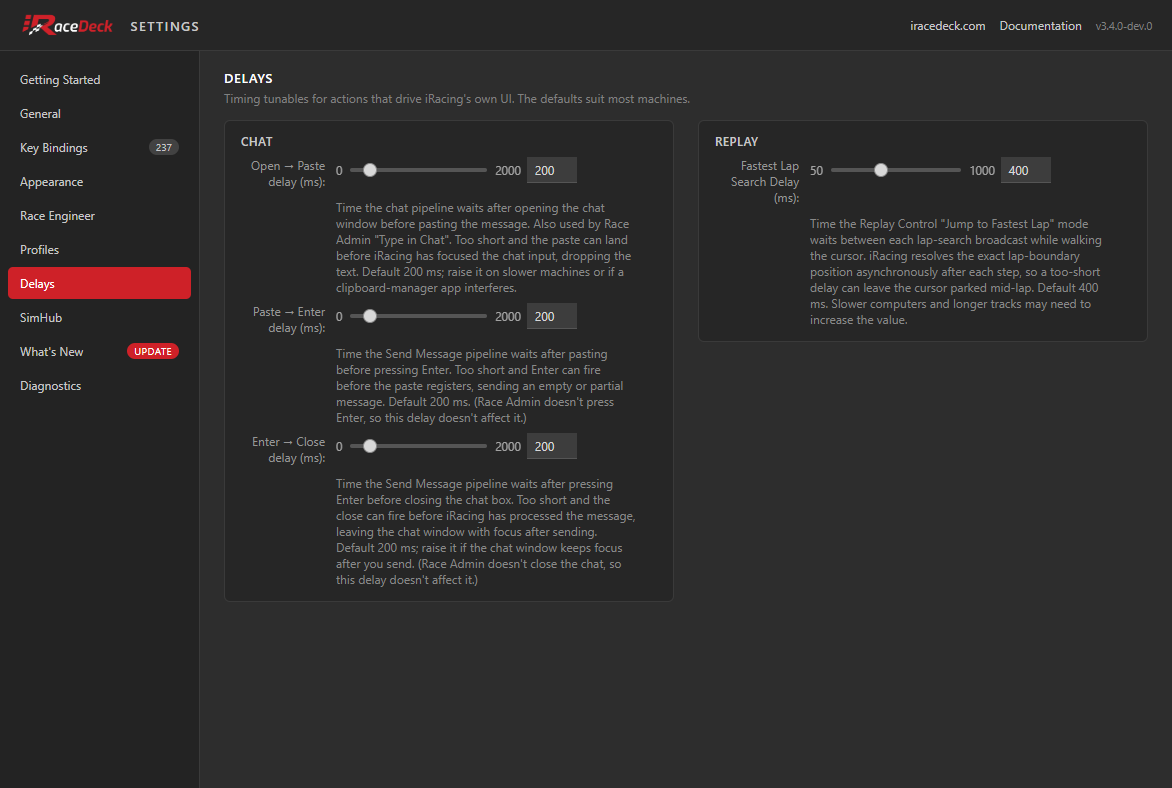
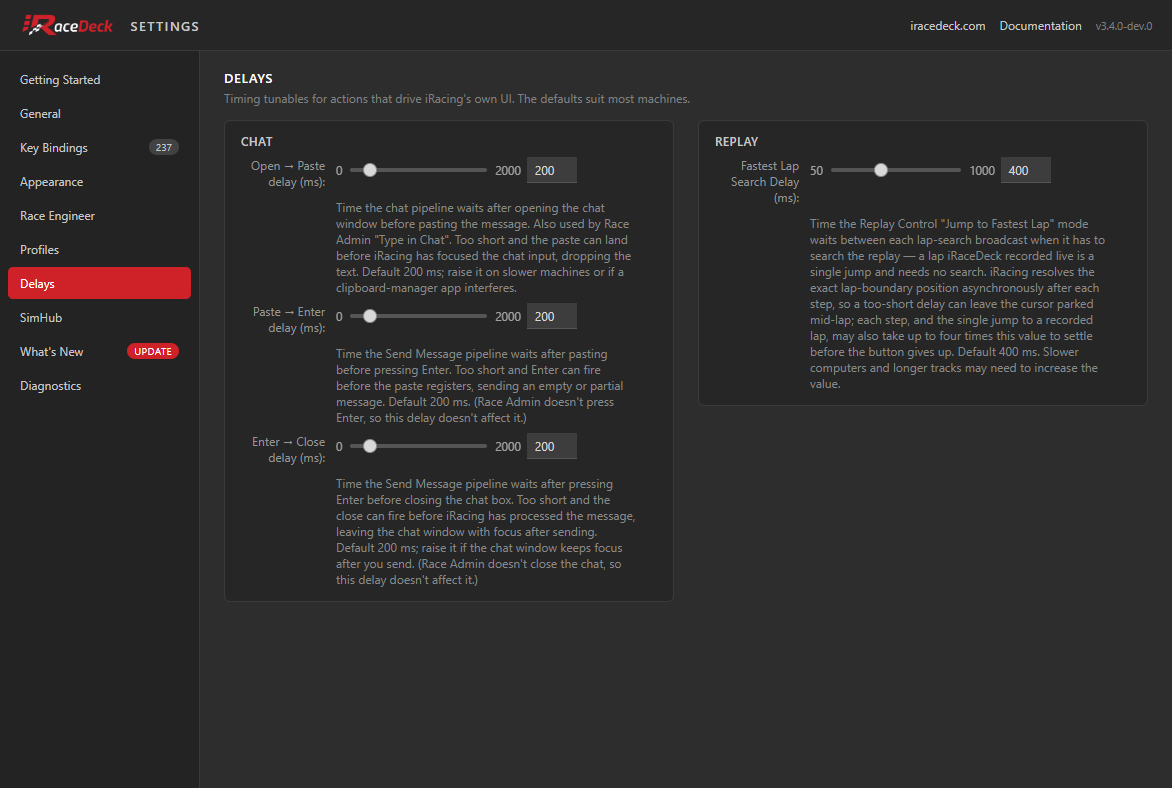
docs(website): the recorded fastest-lap jump waits for the replay to arrive (#1275)

Changed region(s): [[0.6758, 0.3046, 0.9522, 0.4873]]

diff --git a/packages/website/src/content/docs/docs/actions/view-camera/replay-control.md b/packages/website/src/content/docs/docs/actions/view-camera/replay-control.md
@@ -403,7 +403,7 @@ If the target car hasn't completed a lap yet, the press is a no-op (nothing move
 
 The replay lands just **before** the car takes the line — so you see the crossing into the timed lap — and **plays** from there at 1×. The Play / Pause key shows PAUSE and pauses on its next press.
 
-How it gets there depends on whether iRaceDeck saw the lap happen. While the plugin runs during a live session it records the frame at which every car starts every lap into the session's replay record, so a press in the in-session replay — or in the saved replay opened days later — is a single jump straight to the recorded frame. Without a record (the plugin wasn't running, someone else's replay, an offline session's replay opened later) the button searches the replay instead: it pauses, maps the sessions in the recording, bisects within the current one (≈ log₂ N jumps) and steps lap by lap to the line, then plays. Each search is followed by a settle gap before the next command, tunable in the [Settings window](/docs/getting-started/settings/#delays) on the **Delays** tab as **Fastest Lap Search Delay** (default 400 ms, range 50–1000 ms in 50 ms steps); slower computers and longer tracks may need a longer gap. The search remembers the frame it found, so the next press for that lap is a single jump, and pressing any other Replay Control key while it runs stops it and leaves the replay where your command put it.
+How it gets there depends on whether iRaceDeck saw the lap happen. While the plugin runs during a live session it records the frame at which every car starts every lap into the session's replay record, so a press in the in-session replay — or in the saved replay opened days later — is a single jump straight to the recorded frame. iRacing covers a long jump in steps, so the button waits until the replay has arrived before it switches the camera and plays — pausing first if the replay was moving — and gives up after four times the **Fastest Lap Search Delay** below, leaving the replay where it stopped rather than playing from the wrong spot. Without a record (the plugin wasn't running, someone else's replay, an offline session's replay opened later) the button searches the replay instead: it pauses, maps the sessions in the recording, bisects within the current one (≈ log₂ N jumps) and steps lap by lap to the line, then plays. Each search is followed by a settle gap before the next command, tunable in the [Settings window](/docs/getting-started/settings/#delays) on the **Delays** tab as **Fastest Lap Search Delay** (default 400 ms, range 50–1000 ms in 50 ms steps); slower computers and longer tracks may need a longer gap. The search remembers the frame it found, so the next press for that lap is a single jump, and pressing any other Replay Control key while it runs stops it and leaves the replay where your command put it.
 
 The lap record lives in the same per-app file as [Replay Markers](/docs/actions/view-camera/replay-markers/#where-markers-are-kept), so a record made while one deck app was running is used only by that app; another deck app has no record of that session and falls back to searching the replay.
 

diff --git a/packages/website/src/content/docs/docs/getting-started/settings.md b/packages/website/src/content/docs/docs/getting-started/settings.md
@@ -116,7 +116,7 @@ Timing for the actions that drive iRacing's own interface rather than talking to
 
 The three **Chat** delays space out the steps of sending a chat message: opening the box, pasting, pressing Enter, closing. Two symptoms worth recognising: text arriving empty or half-typed usually means the paste-to-Enter delay is too short, and the chat box keeping focus after you send means the Enter-to-close delay is. Raise them on a slower machine, or if a clipboard manager gets in the way.
 
-**Fastest Lap Search Delay** is how long Replay Control's *Jump to Fastest Lap* waits between steps when it has to search the replay for the lap — a lap iRaceDeck recorded while it was driven is a single jump and needs no search. iRacing resolves each lap boundary after the fact, so too short a delay leaves the cursor parked mid-lap, and each step may take up to four times the delay to settle before the search gives up. Longer tracks and slower machines may need more than the default.
+**Fastest Lap Search Delay** is how long Replay Control's *Jump to Fastest Lap* waits between steps when it has to search the replay for the lap — a lap iRaceDeck recorded while it was driven is a single jump and needs no search. iRacing resolves each lap boundary after the fact, so too short a delay leaves the cursor parked mid-lap, and each step — and the single jump to a recorded lap — may take up to four times the delay to settle before the button gives up. Longer tracks and slower machines may need more than the default.
 
 ### SimHub
 
